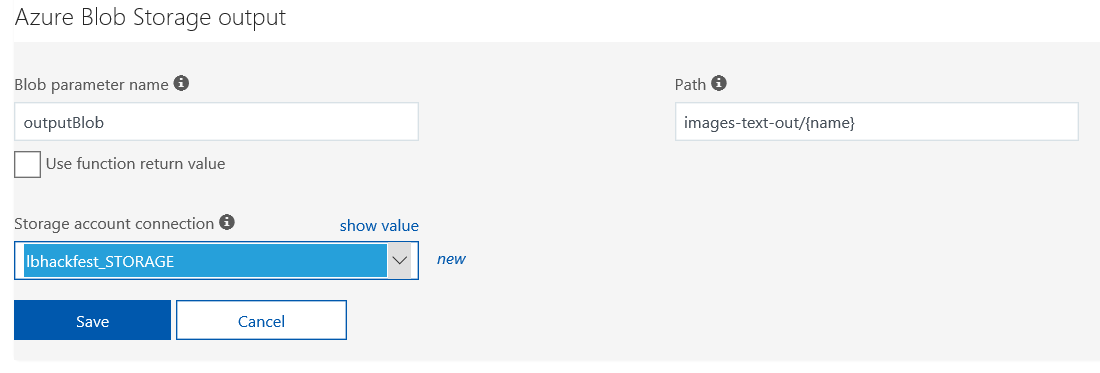
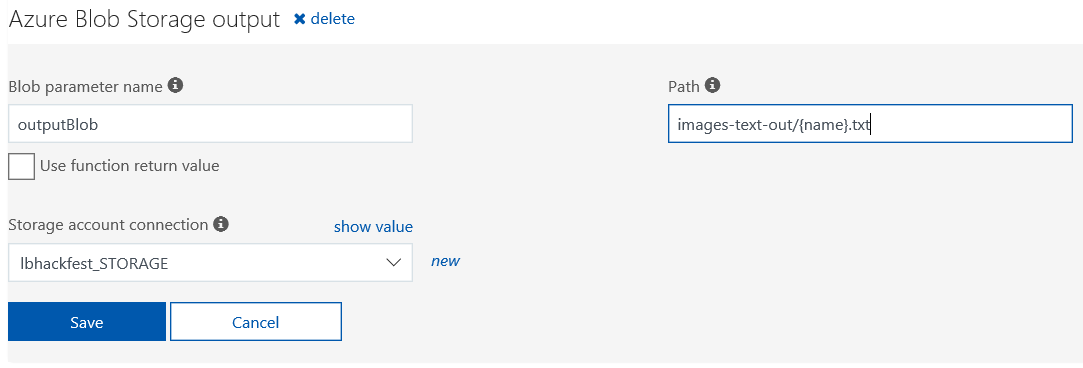
First draft of text-recognition

diff --git a/Doc/text-recognition.md b/Doc/text-recognition.md
@@ -1,5 +1,8 @@
 # Handwritten text recognition using Azure Cognitive Services
 
+> Note: Before you go on, did you check [
+Creating the function application in the portal](./creating.md) ?
+
 This sample shows how to create a blob triggered Azure function in the Azure portal, configure it for input/output, and implement code using Azure cognitive services to **recognize handwritten text in an image**.
 
 The artificial intelligence analyzes the image and creates a JSON file with the words that were recognized as well as positional information about the words in the image.
@@ -48,7 +51,7 @@ After you [created the function application](./creating.md), you can now create 
 
 5. Enter a name for your function, for example ```ExtractText```
 
-6. Enter the path of the Azure blob storage container. This is only for the trigger, aka the "input blob". We will configure the output blob later. In our case, we use ```images-text/{name}```. Note that the ```{name}``` parameter will be the name of the file that you upload, which can be useful in the function.
+6. Enter the path of the Azure blob storage container. This is only for the trigger, aka the "input blob". We will configure the output blob later. In our case, we use ```images-text/{name}.txt```. Note that the ```{name}``` parameter will be the name of the file that you upload, which can be useful in the function.
 
 ![Configuring the name and Path](./Img/2017-11-27_10-13-58.png)
 
@@ -78,7 +81,7 @@ Now we will configure the output blob container. We can do this at any time from
 
 13. If needed, you can change the name of the output blob parameter. This is what you will use in the Function to write to the Stream.
 
-14. Change the path of the output container. In our sample we use ```images-text-out/{name}```
+14. Change the path of the output container. In our sample we use ```images-text-out/{name}.txt```. Note that we added a ```.txt``` extension because the resulting file will be a text file containing some JSON.
 
 15. Under Storage account connection, select the same connection than you selected for the input blob. Then click the Save button.
 
@@ -99,8 +102,10 @@ public static async Task Run(
     Stream outputBlob, 
     TraceWriter log)
 {
-    log.Info($"Processed blob\n Name:{name} \n Size: {myBlob.Length} Bytes");
-    myBlob.CopyTo(outputBlob);
+    using (var writer = new StreamWriter(outputBlob))
+    {
+        writer.Write($"Found blob {name} with {myBlob.Length} bytes");
+    }
 }
 ```
 
@@ -118,9 +123,35 @@ public static async Task Run(
 
 ![Log window in the Azure Portal](./Img/2017-11-30_18-37-20.png)
 
+7. Open the Azure Storage Explorer and navigate to the ```images-text-out``` blob container.
+
+8. Find the file with the same name as the image you just uploaded, and the ```txt``` extension. You can double click this file to open it and you should see text corresponding to our code here above.
+
 ## Getting the cognitive service API key and URL
 
-TODO
+In order to call the Azure cognitive services, we will need a key and a URL. All the Azure services are exposed through REST URLs which are really easy to call. However we need a little bit of setup first. 
+
+1. Go to the Cognitive services homepage at [https://azure.microsoft.com/en-us/services/cognitive-services](https://azure.microsoft.com/en-us/services/cognitive-services).
+
+2. Click on the "Try Cognitive Services for free" button.
+
+[![Try Cognitive Services](./Img/2017-12-01_20-02-12.png)](https://azure.microsoft.com/en-us/try/cognitive-services)
+
+3. Under "Computer Vision API", click the "Get API Key" button.
+
+4. Agree to the terms and services, and select your region. Then click on Next
+
+5. Sign into the service. You can you a Microsoft Account (MSA), LinkedIn, Facebook or Github.
+
+6. After you are authenticated, copy the Key 1. You won't need the second API key here.
+
+7. Also copy the Endpoint URL.
+
+> Note: In your code, you must add the ```recognizeText``` API name to [YOUR ENDPOINT URL]. For example a valid endpoint URL could be ```https://westcentralus.api.cognitive.microsoft.com/vision/v1.0/recognizeText```
+
+![Computer Vision API settings](./Img/2017-12-01_20-20-46.png)
+
+The two values that you just copied will be used in the function implementation below.
 
 ## Implementing the final code
 
@@ -129,14 +160,11 @@ Now is the time to implement the code creating the smart thumbnail. You can see 
 1. First, we will define a few constants. Replace the content of the ```Run``` method with the following attributes:
 
 ```CS
-int width = 320;
-int height = 320;
-bool smartCropping = true;
 string _apiKey = "[YOUR API KEY]";
-string _apiUrlBase = "[YOUR SERVICE URL]";
+string _apiUrlBase = "[YOUR ENDPOINT URL]";
 ```
 
-2. In the code, replace ```[YOUR API KEY]``` with the key that you obtained in the previous section. Also replace ```[YOUR SERVICE KEY]``` with the URL of the service corresponding to the key.
+2. In the code, replace ```[YOUR API KEY]``` with the key that you obtained in the previous section. Also replace ```[YOUR ENDPOINT URL]``` with the URL of the service corresponding to the key. Remember that you must add the API name ```recognizeText``` to the endpoint URL that you copied from the cognitive services dashboard.
 
 > Note: You need to use the URL of the service corresponding to the key that you obtained in the previous section. Other keys or URLs won't work.
 
@@ -152,52 +180,124 @@ using (var httpClient = new HttpClient())
 }
 ```
 
-4. In the same ```using``` block, where the comment ```CONTINUE HERE``` stands, add the following code. This creates a ```StreamContent``` that we will POST to the cognitive service.
+4. In the same ```using``` block, where the comment ```CONTINUE HERE``` stands, add the following code. This creates a ```StreamContent``` that we will POST to the cognitive service. Notice that we appended ```handwriting=true``` to give an indication to the cognitive service that the text is handwritten. You can change this to ```false``` if you want to perform recognition on non-handwritten text.
 
 ```CS
-using (HttpContent content = new StreamContent(inBlob))
+using (HttpContent content = new StreamContent(myBlob))
 {
     //get response
     content.Headers.ContentType = new System.Net.Http.Headers.MediaTypeWithQualityHeaderValue("application/octet-stream");
+    var uri = $"{_apiUrlBase}?handwriting=true";
+    var response = httpClient.PostAsync(uri, content).Result;
 
     // CONTINUE HERE
 }
 ```
-
-5. In that ```using``` section, near the ```CONTINUE HERE``` comment, add the code creating the URL including all the parameters. This information can be found in the [cognitive service's documentation](TODO LINK). Then we POST the image to the service and get the response asynchronously.
+5. The service is not executed immediately, but instead it returns a URL in a variable called ```Operation-Location``` which we need to read now. Replace the ```CONTINUE HERE``` comment with the following code:
 
 ```CS
-var uri = $"{_apiUrlBase}?width={width}&height={height}&smartCropping={smartCropping.ToString()}";
-var response = await httpClient.PostAsync(uri, content)t;
-var responseBytes = await response.Content.ReadAsByteArrayAsync();
+string operationLocation = null;
+
+// The response contains the URI to retrieve the result of the process.
+if (response.IsSuccessStatusCode)
+{
+    operationLocation = response.Headers.GetValues("Operation-Location").FirstOrDefault();
+}
+else
+{
+    log.Error("Operation failed");
+    return;
+}
 ```
 
-6. Finally as the last operation, we copy the output image to the output blob container with the following operation. Note how saving the blob is as simple as writing to the output Stream.
+6. Now we will ping the URL returned in the ```Operation-Location``` variable until we get a result. This is not a very friendly way to do things but thankfully the fact that we can run the Function asynchronously allows us to do this anyway:
 
 ```CS
-//write to output thumb
-outBlob.Write(responseBytes, 0, responseBytes.Length);
+string contentString;
+int i = 0;
+do
+{
+    System.Threading.Thread.Sleep(1000);
+    response = await httpClient.GetAsync(operationLocation);
+    contentString = await response.Content.ReadAsStringAsync();
+    ++i;
+}
+while (i < 10 && contentString.IndexOf("\"status\":\"Succeeded\"") == -1);
+
+if (i == 10 && contentString.IndexOf("\"status\":\"Succeeded\"") == -1)
+{
+    log.Error("\nTimeout error.\n");
+    return;
+}
+```
+
+7. As the last operation, we use a StreamWriter to write the content of the resulting JSON file to the outputBlob Stream. Because we configured this Stream to end up in the output blob container, the write operation will save everything in Azure.
+
+```CS
+using (var writer = new StreamWriter(outputBlob))
+{
+    writer.Write(contentString);
+}
 ```
 
 ## Testing the function
 
 Now we can test the function. To do this, start the [Azure Storage Explorer](https://github.com/lbugnion/sample-azure-general/blob/master/Doc/azure-explorer.md). Then follow the steps:
 
-1. Navigate to the blob container that you created earlier: ```images-original```.
+1. Navigate to the blob container that you created earlier: ```images-text```.
 
-2. Upload a picture like we did before. For example, here is an original picture:
+2. Upload a picture with handwritten text like we did before. For example, here is a picture with handwritten text:
 
-![Microsoft EVP Scott Guthrie](./Img/DSC02731.JPG)
+![Handwritten text](./Img/2017-12-03_17-03-49.png)
 
 3. Observe the log section in the web portal. After a short wait, you should see that the function is executed and succeeded.
 
-4. Using the Azure Storage Explore3r, open the ```images-thumbs``` blob container. You should find a new image there with the same name as the one you just uploaded. In our case, here is the thumbnail create by the artificial intelligence:
+4. Using the Azure Storage Explorer, open the ```images-text-out``` blob container. You should find a new file with the same name as the image you just uploaded, and the ```txt``` extension. In our case, here is the JSON created by the artificial intelligence. We can see the recognized words as well as some information about the bounding box containing the words in the picture. This can be used for example to draw a frame around the words, etc.
 
-![Microsoft EVP Scott Guthrie](./Img/DSC02731A.JPG)
+```JSON
+{
+	"status": "Succeeded",
+	"recognitionResult": {
+		"lines": [{
+			"boundingBox": [37,
+			15,
+			931,
+			60,
+			920,
+			272,
+			25,
+			251],
+			"text": "Hello Azure",
+			"words": [{
+				"boundingBox": [16,
+				27,
+				359,
+				31,
+				389,
+				257,
+				46,
+				254],
+				"text": "Hello"
+			},
+			{
+				"boundingBox": [469,
+				32,
+				940,
+				37,
+				956,
+				263,
+				498,
+				258],
+				"text": "Azure"
+			}]
+		}]
+	}
+}
+```
 
 ## Full code
 
-Here is the full code for the function. Simply copying/pasting the code below in the code window, saving, checking that the compilation succeeded and then uploading an image file to the blob container to check if the code works. Happy coding and testing!
+Here is the full code for the function. Simply copy/paste the code below in the code window, save, check that the compilation succeeded and then upload an image file to the blob container to check if the code works. Happy coding and testing!
 
 ```CS
 public static async Task Run(
@@ -206,11 +306,8 @@ public static async Task Run(
     Stream outputBlob, 
     TraceWriter log)
 {
-    int width = 320;
-    int height = 320;
-    bool smartCropping = true;
-    string _apiKey = "22b1286a2f414d3b80bcb7a0e59c9206";
-    string _apiUrlBase = "https://westcentralus.api.cognitive.microsoft.com/vision/v1.0/generateThumbnail";
+    string _apiKey = "[YOUR API KEY]";
+    string _apiUrlBase = "[YOUR ENDPOINT URL]";
 
     using (var httpClient = new HttpClient())
     {
@@ -221,14 +318,44 @@ public static async Task Run(
         {
             //get response
             content.Headers.ContentType = new System.Net.Http.Headers.MediaTypeWithQualityHeaderValue("application/octet-stream");
+            var uri = $"{_apiUrlBase}?handwriting=true";
+            var response = httpClient.PostAsync(uri, content).Result;
 
-            var uri = $"{_apiUrlBase}?width={width}&height={height}&smartCropping={smartCropping.ToString()}";
-            var response = await httpClient.PostAsync(uri, content);
-            var responseBytes = await response.Content.ReadAsByteArrayAsync();
+            string operationLocation = null;
 
-            //write to output thumb
-            outputBlob.Write(responseBytes, 0, responseBytes.Length);            
-        }
-    }    
+            // The response contains the URI to retrieve the result of the process.
+            if (response.IsSuccessStatusCode)
+            {
+                operationLocation = response.Headers.GetValues("Operation-Location").FirstOrDefault();
+            }
+            else
+            {
+                log.Error("Operation failed");
+                return;
+            }
+
+            string contentString;
+            int i = 0;
+            do
+            {
+                System.Threading.Thread.Sleep(1000);
+                response = await httpClient.GetAsync(operationLocation);
+                contentString = await response.Content.ReadAsStringAsync();
+                ++i;
+            }
+            while (i < 10 && contentString.IndexOf("\"status\":\"Succeeded\"") == -1);
+
+            if (i == 10 && contentString.IndexOf("\"status\":\"Succeeded\"") == -1)
+            {
+                log.Error("\nTimeout error.\n");
+                return;
+            }
+
+            using (var writer = new StreamWriter(outputBlob))
+            {
+                writer.Write(contentString);
+            }
+       }
+    }
 }
 ```

diff --git a/Doc/thumbnail.md b/Doc/thumbnail.md
@@ -121,6 +121,10 @@ public static async Task Run(
 
 ![Log window in the Azure Portal](./Img/2017-11-30_18-37-20.png)
 
+7. Open the Azure Storage Explorer and navigate to the ```images-thumbs``` blob container. You should see a new file there which is an exact copy of the file you just uploaded.
+
+> Note: You can double click a file in the Azure Storage Explorer to open it.
+
 ## Getting the cognitive service API key and URL
 
 In order to call the Azure cognitive services, we will need a key and a URL. All the Azure services are exposed through REST URLs which are really easy to call. However we need a little bit of setup first. 
@@ -216,13 +220,13 @@ Now we can test the function. To do this, start the [Azure Storage Explorer](htt
 
 3. Observe the log section in the web portal. After a short wait, you should see that the function is executed and succeeded.
 
-4. Using the Azure Storage Explore3r, open the ```images-thumbs``` blob container. You should find a new image there with the same name as the one you just uploaded. In our case, here is the thumbnail create by the artificial intelligence:
+4. Using the Azure Storage Explorer, open the ```images-thumbs``` blob container. You should find a new image there with the same name as the one you just uploaded. In our case, here is the thumbnail created by the artificial intelligence:
 
 ![Microsoft EVP Scott Guthrie, tnumbnail](./Img/DSC02731A.JPG)
 
 ## Full code
 
-Here is the full code for the function. Simply copying/pasting the code below in the code window, saving, checking that the compilation succeeded and then uploading an image file to the blob container to check if the code works. Happy coding and testing!
+Here is the full code for the function. Simply copy/paste the code below in the code window, save, check that the compilation succeeded and then upload an image file to the blob container to check if the code works. Happy coding and testing!
 
 ```CS
 public static async Task Run(
